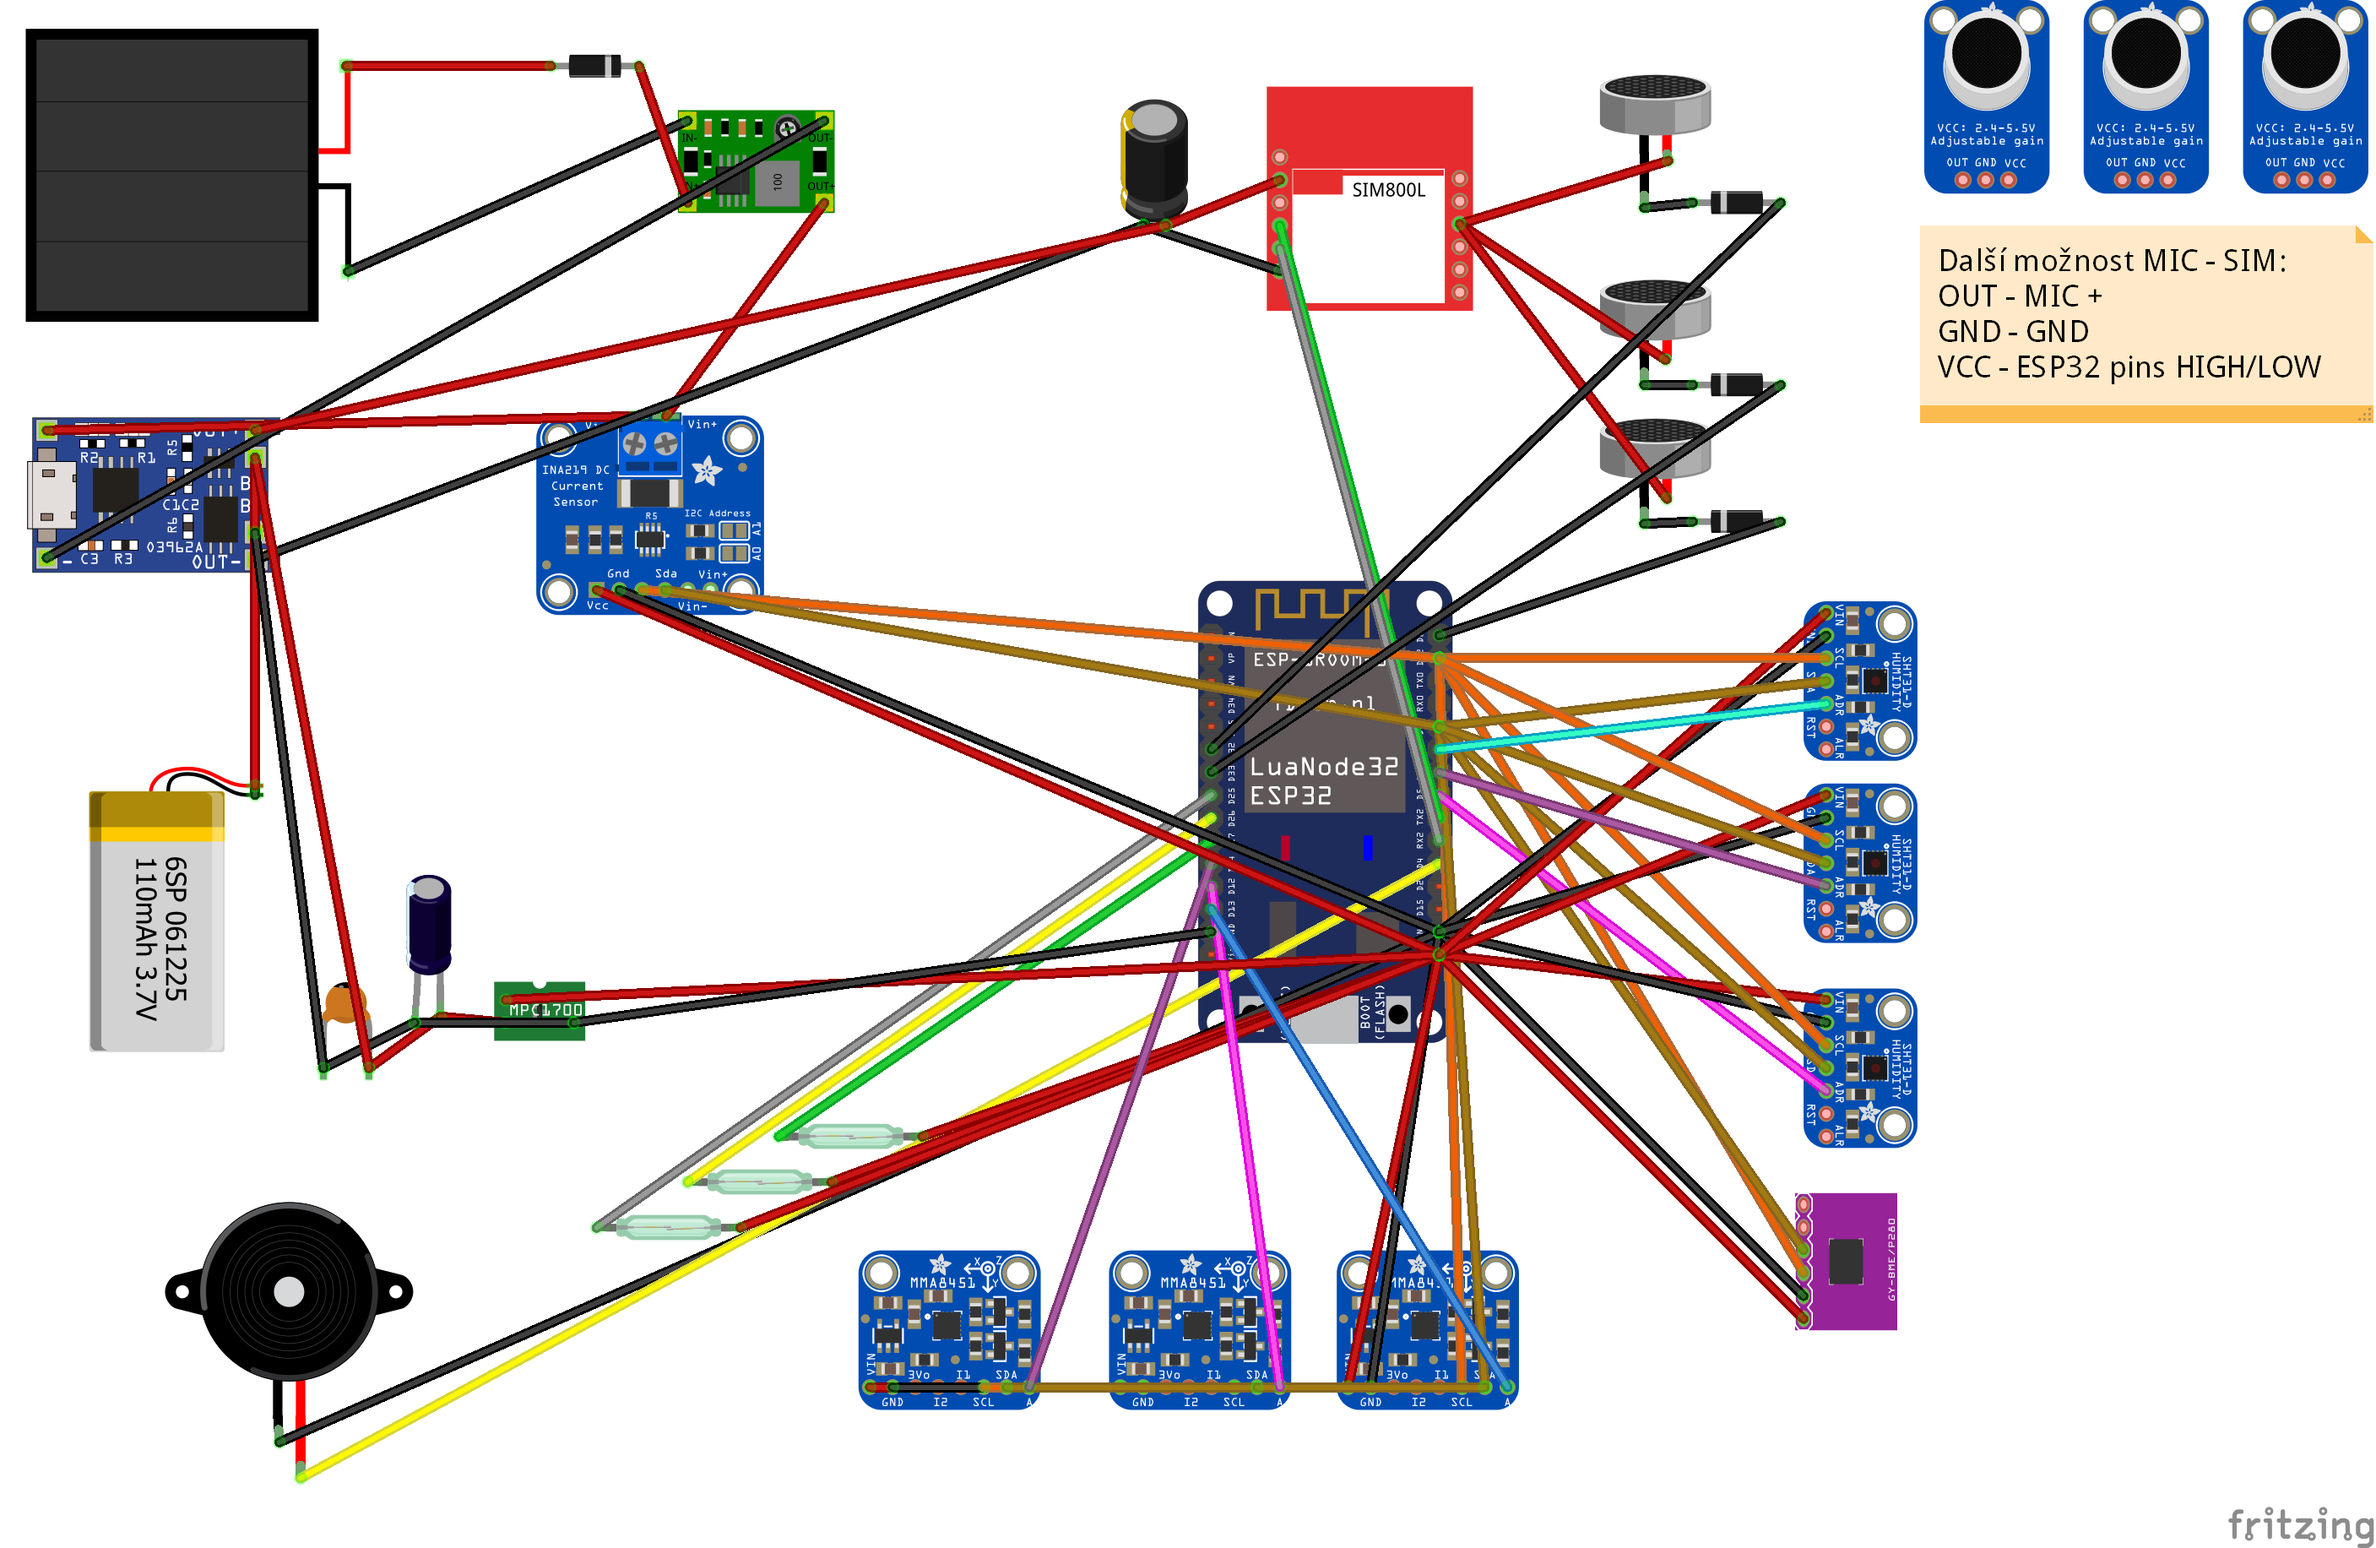
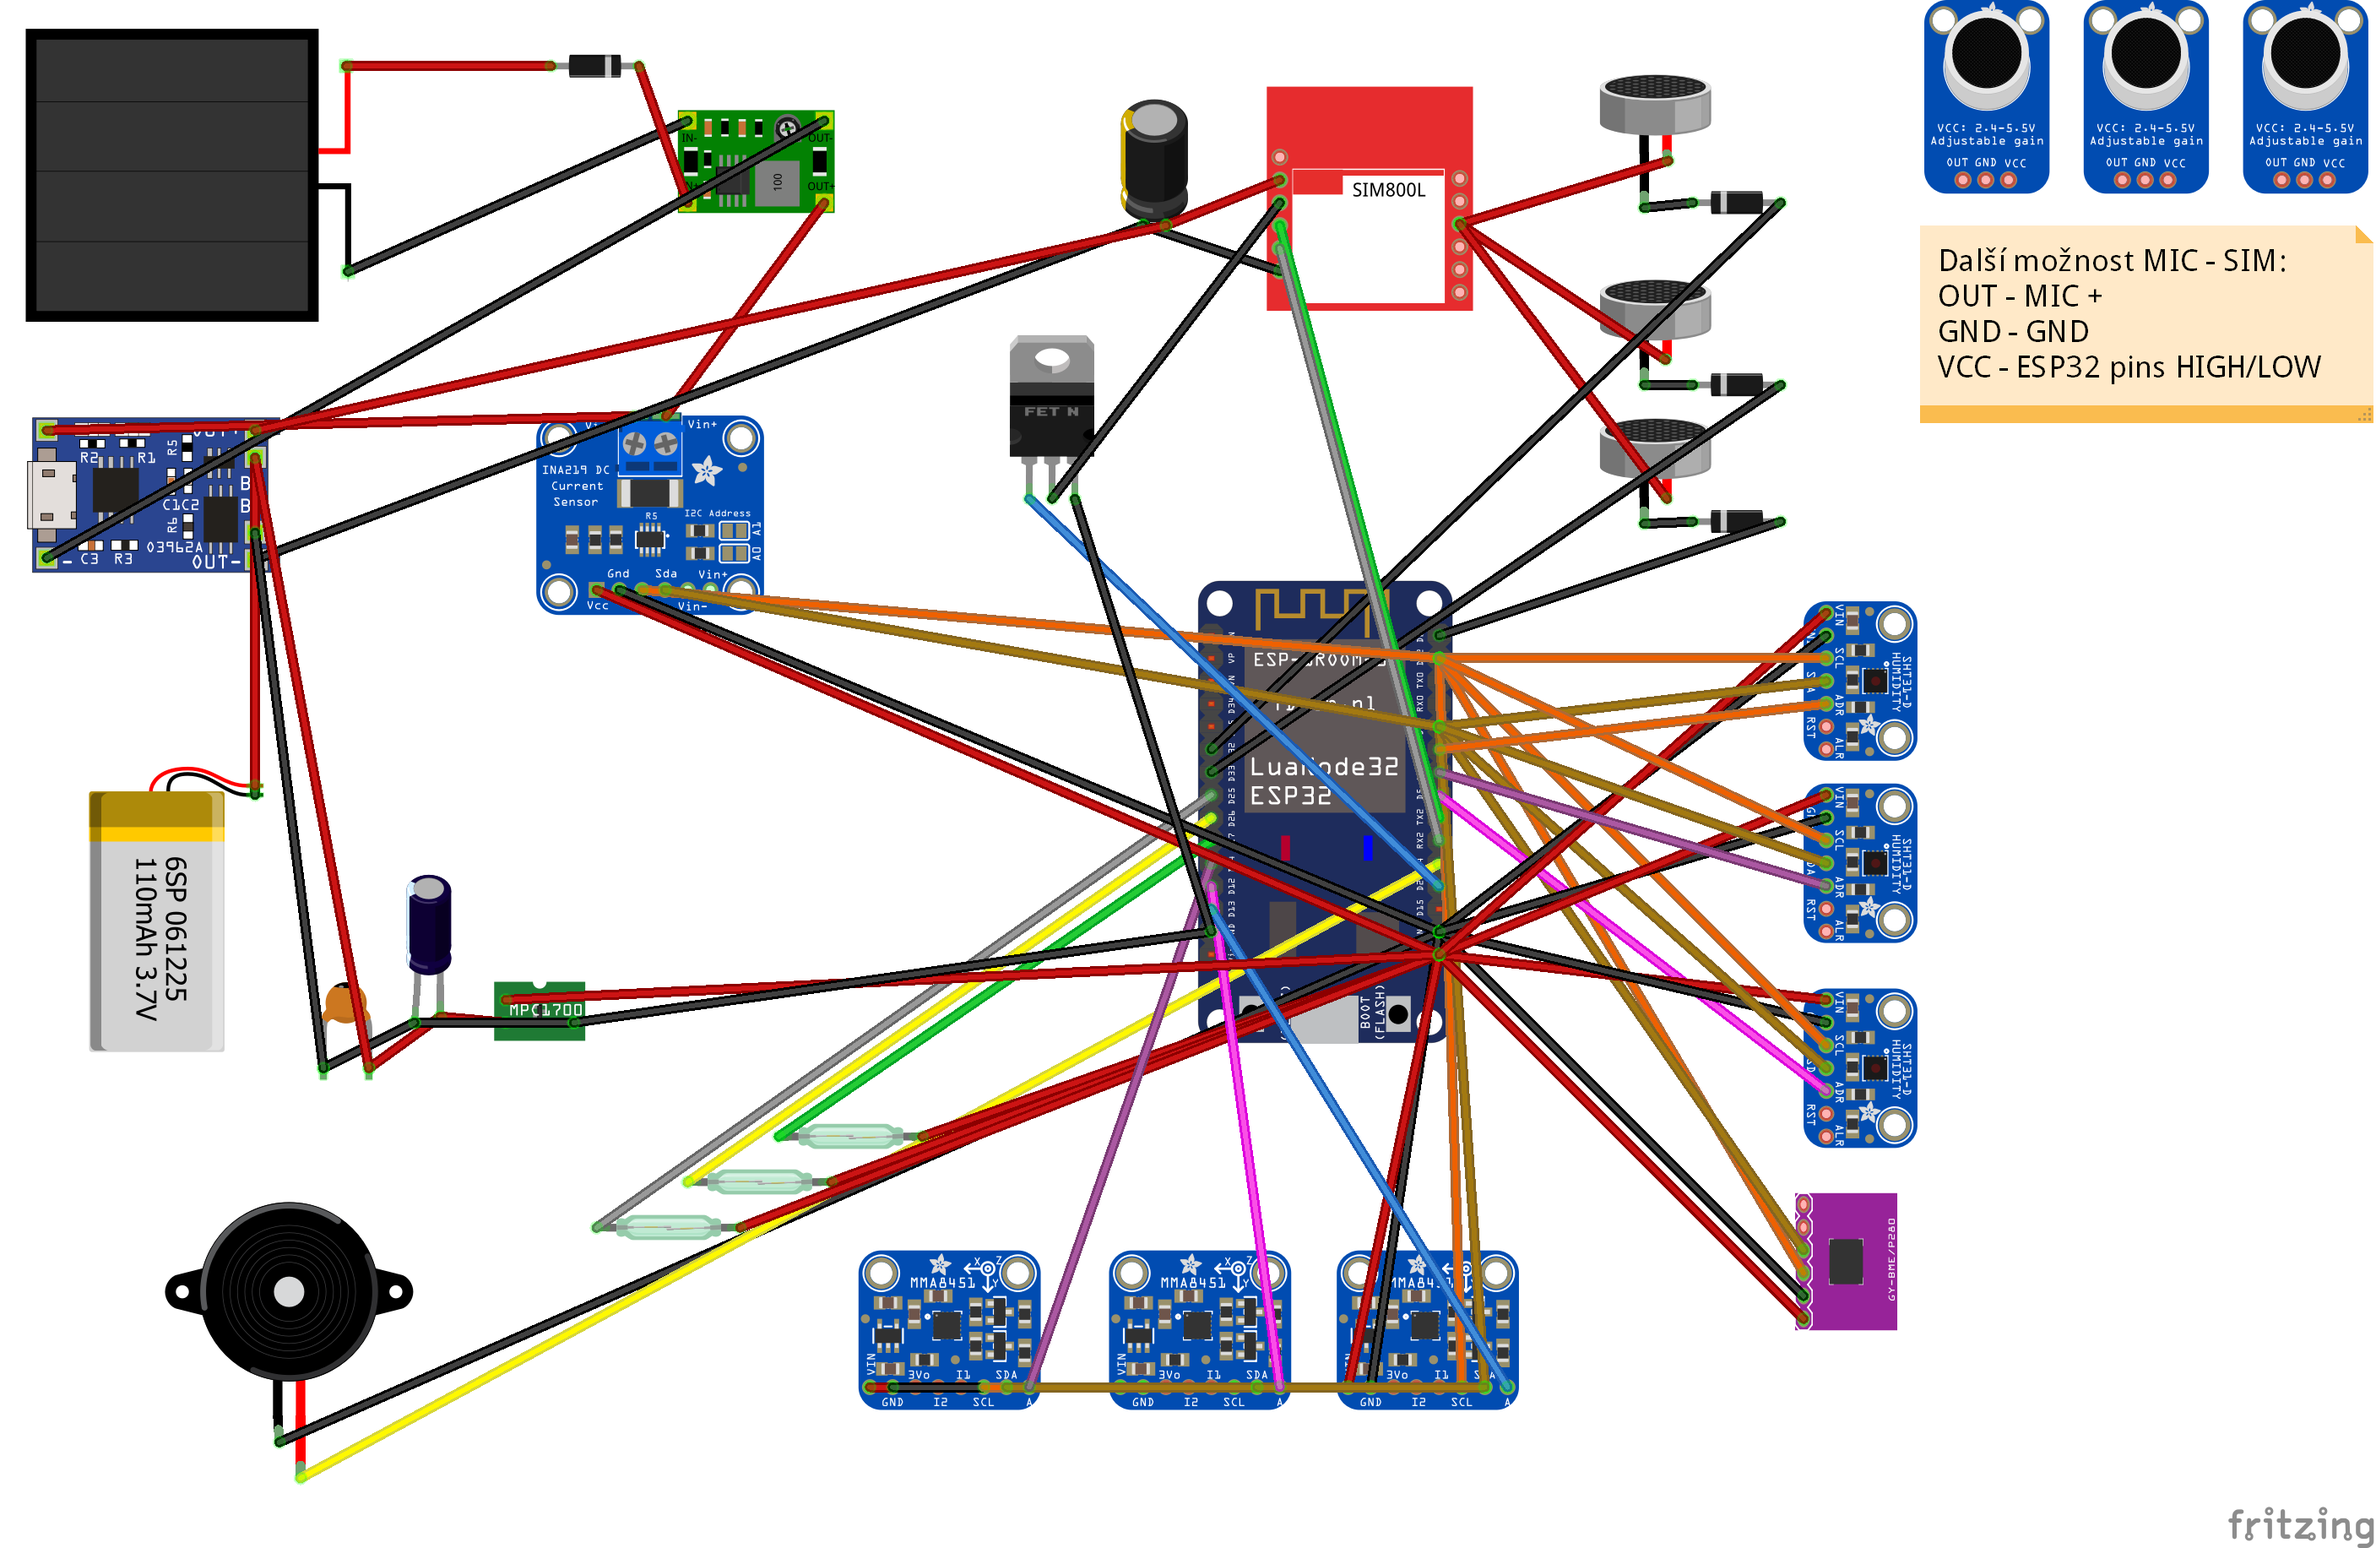
Better modem/GPRS init, Hardware modem reset

diff --git a/lib/InternetConnection/InternetConnection.cpp b/lib/InternetConnection/InternetConnection.cpp
@@ -148,8 +148,8 @@ void InternetConnection::initialize()
     pinMode(MICROPHONE_B_PIN, OUTPUT);
     pinMode(MICROPHONE_C_PIN, OUTPUT);
 
-    // Set GSM module baud rate
-    gsmSerial.begin(115200, SERIAL_8N1, 16, 17, false);
+    pinMode(MODEM_RESET_PIN, OUTPUT);
+
     // TODO: sleep/wake upp https://www.raviyp.com/embedded/223-sim900-sim800-sleep-mode-at-commands
     // pinMode(DTR_PIN, OUTPUT);
     // digitalWrite(DTR_PIN, HIGH);
@@ -162,6 +162,18 @@ void InternetConnection::initialize()
 void InternetConnection::restartModem()
 {
     Serial.println("Restarting modem");
+    delay(1000);
+    digitalWrite(MODEM_RESET_PIN, HIGH);
+    delay(400);
+    digitalWrite(MODEM_RESET_PIN, LOW);
+    delay(400);
+
+    Serial.println("Restarting modem - initial serial, factory default");
+    // Set GSM module baud rate
+    gsmSerial.begin(115200, SERIAL_8N1, 16, 17, false);
+    modem.factoryDefault();
+
+    Serial.println("Restarting modem - doing restart");
 
     if (!modem.restart())
     {
@@ -172,6 +184,7 @@ void InternetConnection::restartModem()
     {
         Serial.println("Modem restart OK");
         modemReady = true;
+        Blynk.config(modem, settings.blynkAuth);
         Serial.println("Modem info: " + modem.getModemInfo());
     }
 }
@@ -217,22 +230,37 @@ void InternetConnection::processIncomingCall()
 
 bool InternetConnection::initializeConnection()
 {
-    Serial.println("Initialize Blynk connection");
-    if (modemReady)
+    bool result = false;
+
+    if (!modemReady)
+    {
+        Serial.println("Modem is not ready, can't start Blynk");
+    }
+
+    Serial.println("Initialize Blynk connection - modem ready, start connect to GPRS");
+
+    if (modemReady && modem.gprsConnect(settings.apn))
     {
         // TODO: wake up?
         // digitalWrite(DTR_PIN, LOW);
         // delay(100);
         // modem.sleepEnable(false);
         // digitalWrite(DTR_PIN, HIGH);
-        Blynk.begin(settings.blynkAuth, modem, settings.apn, "", "");
-        return true;
+        Serial.println("Initialize Blynk connection - modem gprs connect OK, start Blynk");
+        Blynk.connect();
+        Serial.println("Initialize Blynk connection - Blynk OK");
+        result = true;
     }
     else
     {
-        Serial.println("Modem is not ready, can't start Blynk");
-        return false;
+        Serial.println("Can't connect to GPRS");
     }
+
+    if (!result)
+    {
+        restartModem();
+    }
+    return result;
 }
 
 void InternetConnection::disconnect()

diff --git a/src/main.cpp b/src/main.cpp
@@ -21,9 +21,7 @@ void sendDataToInternet();
 void checkIncomingCall();
 void checkGyroscopeAlarm();
 void checkMagneticLockAlarm();
-void restartESP();
 
-Ticker timerRestartESP(restartESP, 14400000);                // 4 hours
 Ticker timerSendDataToInternet(sendDataToInternet, 300000);  // 5 min 300000
 Ticker timerCheckIncomingCall(checkIncomingCall, 5123);      // 5 sec
 Ticker timerGyroscopeAlarm(checkGyroscopeAlarm, 5321);       // 5 sec
@@ -47,7 +45,6 @@ void setup()
   timerGyroscopeAlarm.start();
   timerMagneticLockAlarm.start();
   timerSendDataToBlynkIfAlarm.start();
-  timerRestartESP.start();
 
   meteoData.initializeSensors();
 
@@ -66,7 +63,6 @@ void loop()
   timerGyroscopeAlarm.update();
   timerMagneticLockAlarm.update();
   timerSendDataToBlynkIfAlarm.update();
-  timerRestartESP.update();
 
   connection.blynkRunIfAlarm();
 }
@@ -140,10 +136,4 @@ void sendDataToBlynkIfAlarm()
   connection.setMagneticLockControllerDataToBlynkIfAlarm(magneticLockController);
   connection.setGyroscopeControllerDataToBlynkIfAlarm(gyroscopeController);
   connection.checkSirenAlarm();
-}
-
-void restartESP()
-{
-  Serial.println("** RESTARTING **");
-  ESP.restart();
 }

diff --git a/lib/InternetConnection/InternetConnection.h b/lib/InternetConnection/InternetConnection.h
@@ -9,6 +9,9 @@
 #define MICROPHONE_B_PIN 32
 #define MICROPHONE_C_PIN 33
 
+// pin for modem hardware reset
+#define MODEM_RESET_PIN 2
+
 #include <TinyGsmClient.h>
 #include <ArduinoHttpClient.h>
 #include <FS.h>
